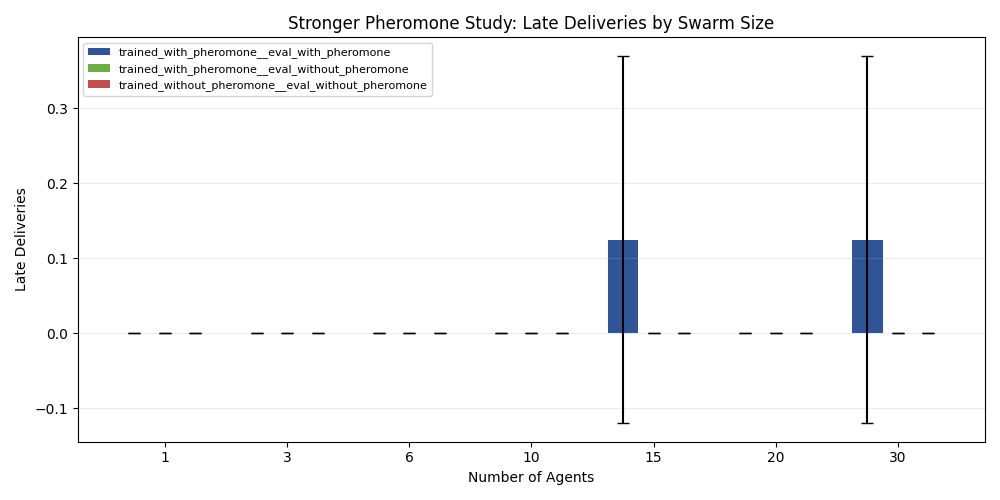
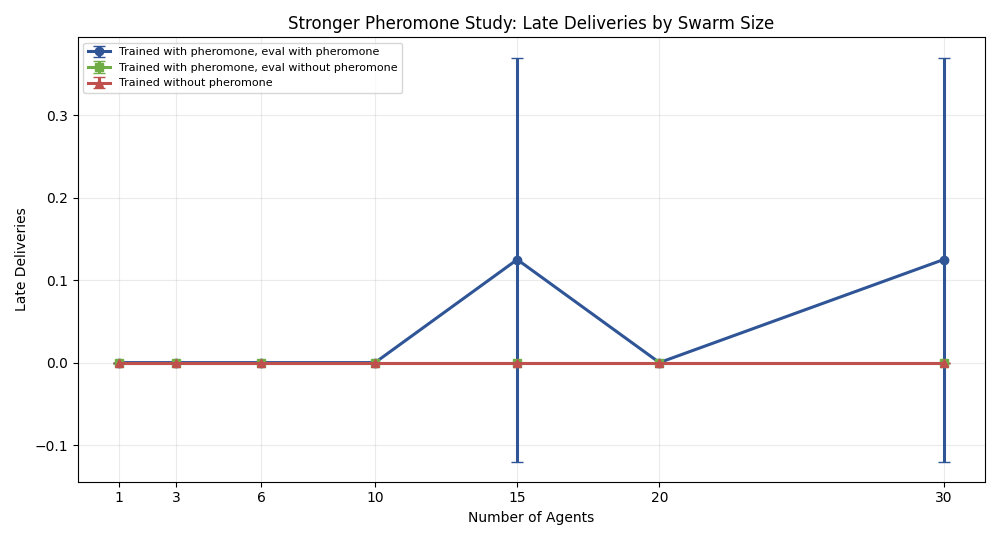
What happened:
- the plotting script was generating the new 3-line graph correctly in:
      - dev/cwsf2026/sim/docs/gvrsf2026/experiments/20260406_132534/killer_scaling/figures/food_delivered_by_swarm_size.png
  - but the report/paper were using the top-level copied image:
      - dev/cwsf2026/sim/docs/gvrsf2026/experiments/20260406_132534/figures/killer_food_delivered_by_swarm_size.png
  - that top-level copy was stale

  I refreshed the top-level copies. I also verified from the data that the plotted series are genuinely different:

  - with pheromone: [0.0, 0.125, 0.125, 0.5, 0.625, 0.75, 1.5]
  - eval without pheromone: [0.0, 0.125, 0.0, 0.625, 0.625, 1.0, 1.5]
  - trained without pheromone: [0.0, 0.0, 0.0, 0.0, 0.0, 0.0, 0.0]

  So the corrected figure now should show:

  - two nonzero traces
  - one flat zero trace

  Use this file directly if needed:

  - dev/cwsf2026/sim/docs/gvrsf2026/experiments/20260406_132534/figures/killer_food_delivered_by_swarm_size.png

diff --git a/docs/gvrsf2026/experiments/paper_20260406_132534.md b/docs/gvrsf2026/experiments/paper_20260406_132534.md
@@ -148,7 +148,7 @@ Broad scaling remains one of the clearest families even at reduced repetition:
 - `20` agents: `5.0`
 - `30` agents: `5.625`
 
-![Broad Scaling: Food Delivered](./20260406_132534/figures/broad_scaling_food_delivered.png)
+![Three-Condition Scaling: Food Delivered](./20260406_132534/figures/killer_food_delivered_by_swarm_size.png)
 
 ![Broad Scaling: Delivery Conversion](./20260406_132534/figures/scaling_delivery_conversion.png)
 
@@ -156,7 +156,7 @@ Broad scaling remains one of the clearest families even at reduced repetition:
 
 ### Interpretation
 
-Broad scaling remains easy to see qualitatively. The curve is not perfectly smooth, but the general upward trend with larger swarm size is still present. This broad scaling family is still a single-condition plot, so it should be read as “how the main trained policy scales,” not as the main cross-condition pheromone comparison.
+Broad scaling remains easy to see qualitatively, but the figure shown here is the 3-condition killer comparison so the reader can directly compare pheromone-enabled and no-pheromone trajectories across swarm size.
 
 ## 5.5 Generic pheromone ablation stayed weak
 

diff --git a/docs/gvrsf2026/experiments/report_20260406_132534.md b/docs/gvrsf2026/experiments/report_20260406_132534.md
@@ -126,11 +126,11 @@ From [tables/family_summary.csv](./20260406_132534/tables/family_summary.csv):
 
 Figure:
 
-![Broad Scaling Food Delivered](./20260406_132534/figures/broad_scaling_food_delivered.png)
+![Three-Condition Scaling Food Delivered](./20260406_132534/figures/killer_food_delivered_by_swarm_size.png)
 
 ### Interpretation
 
-The broad scaling curve still rises strongly overall, though it is not perfectly monotonic at every intermediate size. This broad figure is a one-condition scaling plot, so it shows only how the main trained policy changes with swarm size. It is not the cross-condition comparison figure.
+The overall broad scaling story is still strong, but the figure shown here is the 3-condition comparison plot so the reader can directly compare the pheromone and no-pheromone trajectories on the same axes.
 
 ## 4.4 Broad pheromone ablation remained weak
 
